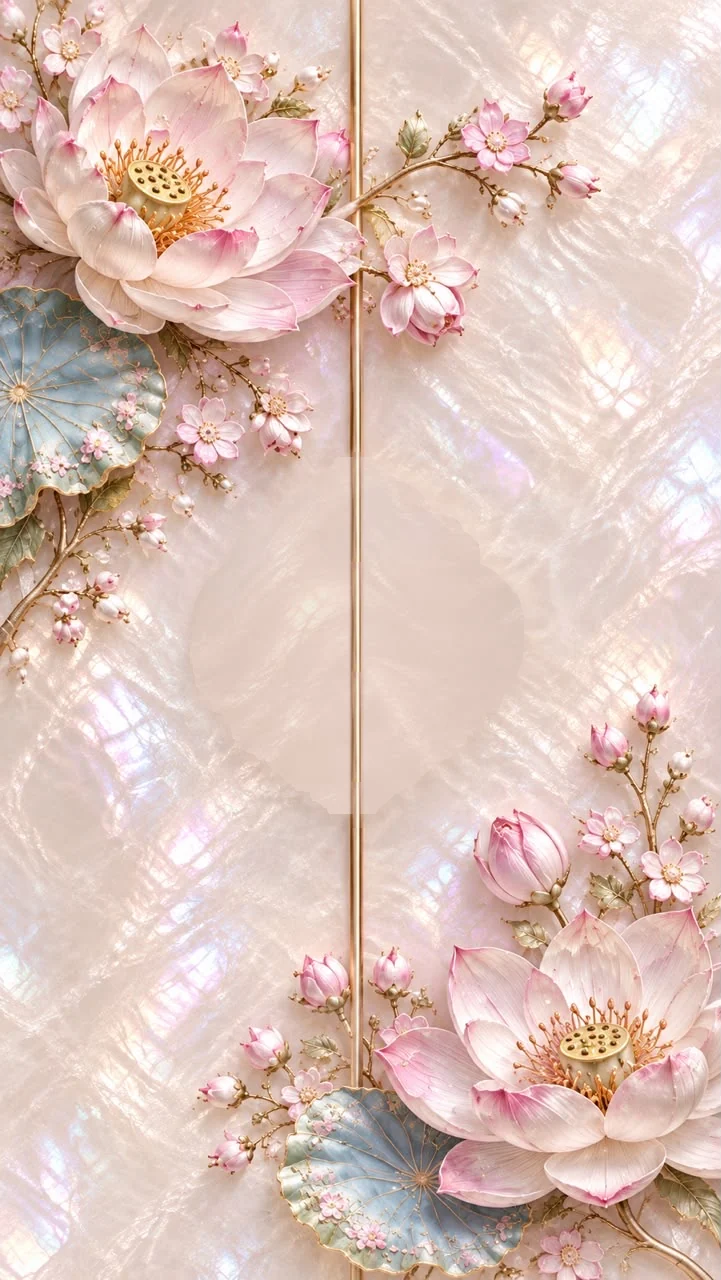
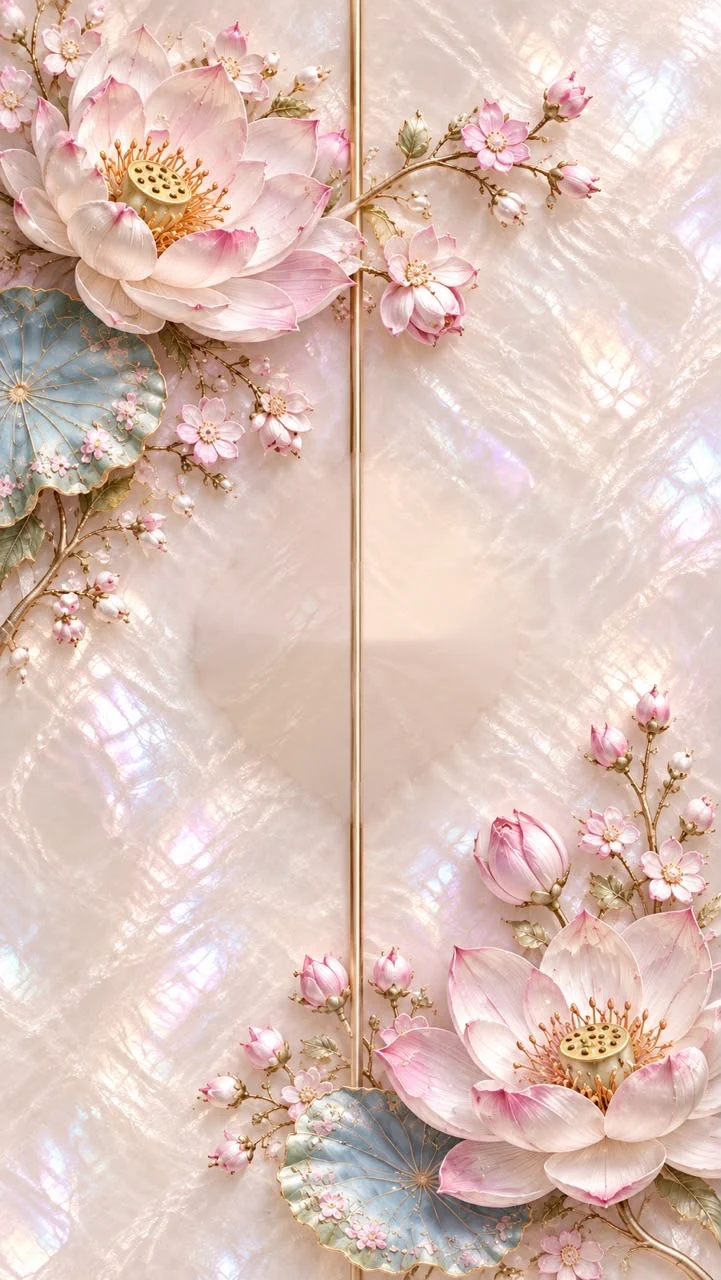
Dior Pink Flowers: seamless spinning medallion; sample groom name
- Medallion layer now keeps its full pointed tips and the whole gold outline,
  and fades softly into identical surroundings, so at rest it matches the
  original cover exactly (no clipped edges).
- Only the medallion's own shape is filled underneath (seen just while it
  spins), with colours continuing from the surrounding pearl plus real pearl
  texture; everything around it stays original.
- Sample invitation groom name: جلال (initials ج س).
- Image revision bumped so phones fetch the new files.

Claude-Session: https://claude.ai/code/session_015zS94yBeWhGXKckDvFWUsm

Changed region(s): [[0.3051, 0.5, 0.4882, 0.6562], [0.5492, 0.5625, 0.6103, 0.5938]]

diff --git a/lib/themes.ts b/lib/themes.ts
@@ -1,6 +1,6 @@
 /** Client-safe helpers for theme assets (thumbnails etc.), keyed by renderer. */
 /** Browsers cache theme images for a year: bump a renderer's revision whenever its images change. */
-const REV: Record<string, string> = { "pearl-lotus@1": "3" };
+const REV: Record<string, string> = { "pearl-lotus@1": "4" };
 
 export function themeThumb(renderer: string, variant: string): string {
   const [name, ver] = renderer.split("@");

diff --git a/lib/invitation/defaults.ts b/lib/invitation/defaults.ts
@@ -43,9 +43,9 @@ export function sampleViewModel(variant: InvitationViewModel["variant"] = "white
     mode: "demo",
     content: {
       ...defaultContent(),
-      groomName: "محمد",
+      groomName: "جلال",
       brideName: "سارة",
-      initials: "م س",
+      initials: "ج س",
       eventDate: "2027-05-20",
       eventTime: "20:30",
       timeNote: "بعد صلاة العشاء",

diff --git a/components/invitation/pearl-lotus/PearlLotusInvitation.tsx b/components/invitation/pearl-lotus/PearlLotusInvitation.tsx
@@ -31,7 +31,7 @@ const M = manifestJson as unknown as {
 };
 const ASSET_ROOT = "/assets/themes/pearl-lotus/v1";
 /** Theme images are cached by browsers for a year; bump this whenever an image file changes. */
-const REV = "3";
+const REV = "4";
 const VARIANTS = ["blush"]; // prepared colour variants (folders under ASSET_ROOT)
 const pct = (n: number) => `${(n * 100).toFixed(4)}%`;
 

diff --git a/scripts/build_lotus_assets.py b/scripts/build_lotus_assets.py
@@ -37,7 +37,7 @@ OUT = ROOT / "public" / "assets" / "themes" / "pearl-lotus" / "v1"
 
 SEAM_X = 356.5  # centre of the vertical gold line (cover px)
 BOX = (186, 452, 530, 828)  # search window around the medallion
-TIPS = (464, 807)
+TIPS = (455, 822)  # rows kept: whole medallion incl. its pointed tips
 OVAL = (359, 452, 183, 239)  # page 3 inner oval: centre x, centre y, radius x, radius y (just inside the gold line)  # medallion top / bottom tip rows (the seam line continues beyond them)
 
 
@@ -73,15 +73,17 @@ def medallion_mask(img: np.ndarray) -> np.ndarray:
 
 
 def lift_medallion(img: np.ndarray, medal: np.ndarray, pearl: np.ndarray) -> np.ndarray:
-    """Cover without the medallion: real pearl texture filled in (taken from the same, empty area of
-    page 1 and matched in colour), and the vertical seam line continued through."""
-    hole = cv2.dilate(medal, np.ones((15, 15), np.uint8))
+    """Cover without the medallion (seen only around it while it spins): the colours continue smoothly
+    from the surrounding pearl (inpainting) and real pearl texture detail from the same empty area of
+    page 1 is laid over them; everything outside the medallion stays original. The seam line continues."""
+    hole = cv2.dilate(medal, np.ones((5, 5), np.uint8))
     x0, y0, x1, y1 = BOX
-    ring = (cv2.dilate(hole, np.ones((31, 31), np.uint8)) - hole).astype(bool)
+    smooth = cv2.inpaint(img, hole * 255, 15, cv2.INPAINT_TELEA).astype(np.float32)
     tex = pearl.astype(np.float32)
-    tex += img[ring].mean(0) - tex[ring].mean(0)
-    soft = np.maximum(cv2.GaussianBlur(hole.astype(np.float32), (41, 41), 0), hole.astype(np.float32))[..., None]
-    base = (img.astype(np.float32) * (1 - soft) + np.clip(tex, 0, 255) * soft).astype(np.uint8)
+    detail = tex - cv2.GaussianBlur(tex, (0, 0), 9)
+    fill = np.clip(smooth + detail * 1.1, 0, 255)
+    soft = np.maximum(cv2.GaussianBlur(hole.astype(np.float32), (5, 5), 0), hole.astype(np.float32))[..., None]
+    base = (img.astype(np.float32) * (1 - soft) + fill * soft).astype(np.uint8)
     cx = int(round(SEAM_X))
     half = 9
     src = img[345:455, cx - half : cx + half + 1].astype(np.float32)  # clean stretch of the seam line
@@ -136,8 +138,9 @@ def main() -> None:
     base = lift_medallion(clean, medal, page1)
 
     ys, xs = np.where(medal)
-    mx0, my0, mx1, my1 = xs.min() - 3, ys.min() - 3, xs.max() + 4, ys.max() + 4
-    alpha = cv2.GaussianBlur(cv2.dilate(medal, np.ones((3, 3), np.uint8)) * 255, (3, 3), 0)
+    mx0, my0, mx1, my1 = xs.min() - 10, ys.min() - 10, xs.max() + 11, ys.max() + 11
+    alpha = cv2.GaussianBlur(cv2.dilate(medal, np.ones((11, 11), np.uint8)).astype(np.float32), (9, 9), 0)
+    alpha = (np.clip(alpha, 0, 1) * 255).astype(np.uint8)
     rgba = np.dstack([clean, alpha])[my0:my1, mx0:mx1]
 
     save_webp(base, out / "cover-base.webp")
